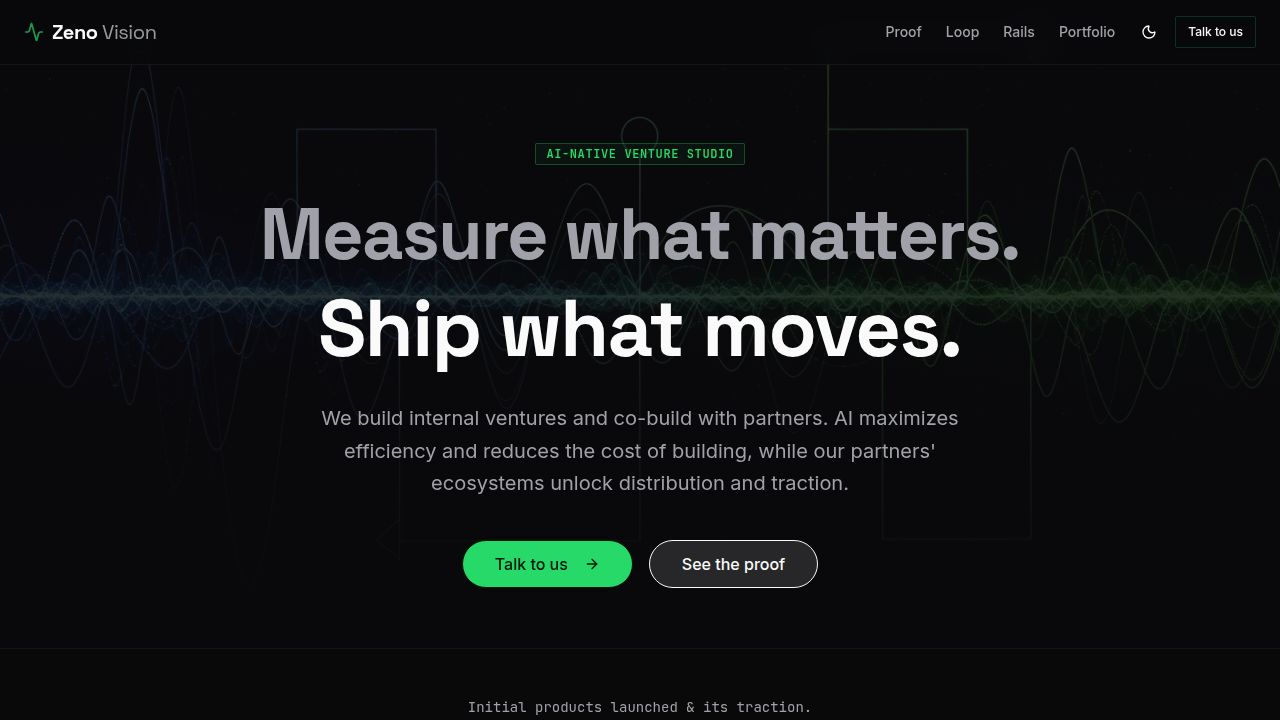
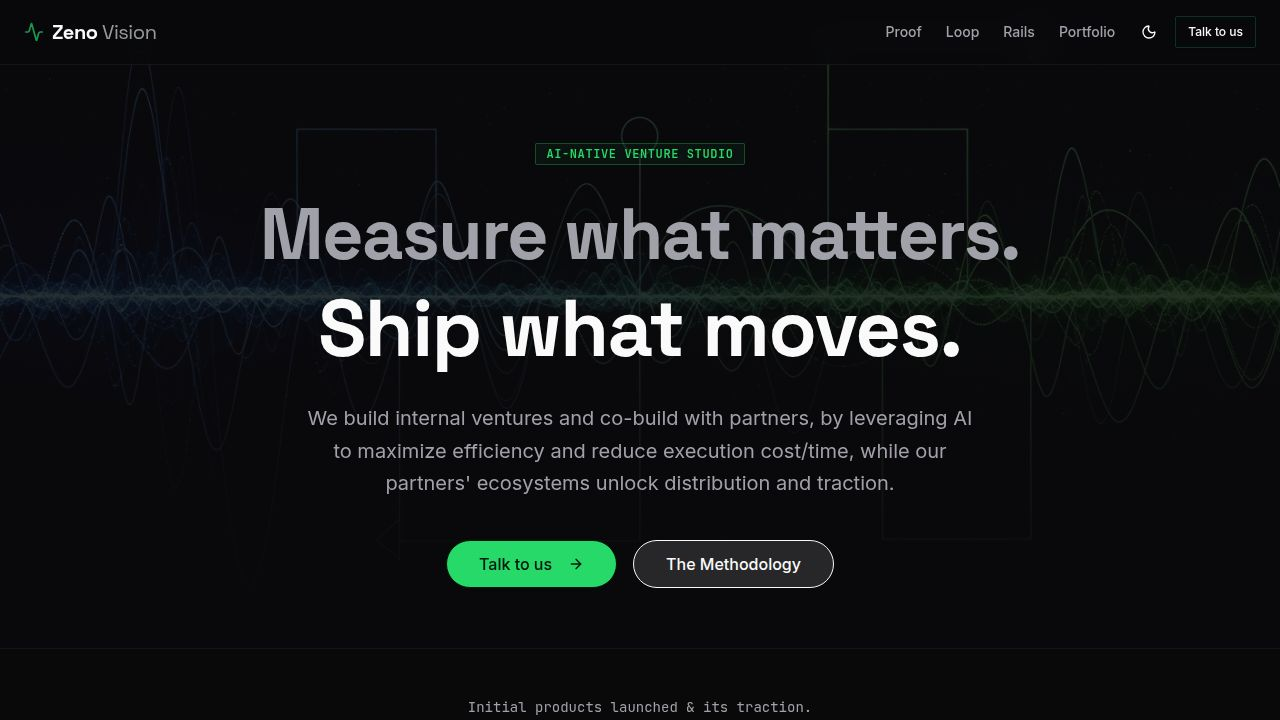
Update hero section tagline to include AI's role in efficiency
Modify the hero section's descriptive paragraph in `home.tsx` to reflect how AI enhances efficiency and reduces costs.

Replit-Commit-Author: Agent
Replit-Commit-Session-Id: 262afabe-b372-450c-9c74-cf88ad5452be
Replit-Commit-Checkpoint-Type: full_checkpoint
Replit-Commit-Event-Id: 95eeb934-a710-4ae8-9380-e8ffa2105dbb
Replit-Commit-Screenshot-Url: https://storage.googleapis.com/screenshot-production-us-central1/4f4f9012-dcda-40b1-bf47-ed13ac9763ff/262afabe-b372-450c-9c74-cf88ad5452be/3M1D01b
Replit-Helium-Checkpoint-Created: true

Changed region(s): [[0.25, 0.55, 0.75, 0.7028], [0.3438, 0.7333, 0.6562, 0.825]]

diff --git a/client/src/pages/home.tsx b/client/src/pages/home.tsx
@@ -112,8 +112,7 @@ const Hero = () => {
             <span className="text-[1.1em]">Ship what moves.</span>
           </h1>
           <p className="text-lg md:text-xl text-muted-foreground max-w-2xl mx-auto mb-10 leading-relaxed">
-            We build internal ventures and co-build with partners.
-            AI maximizes efficiency and reduces the cost of building, while our partners' ecosystems unlock distribution and traction.
+            We build internal ventures and co-build with partners, by leveraging AI to maximize efficiency and reduce execution cost/time, while our partners' ecosystems unlock distribution and traction.
           </p>
           
           <div className="flex flex-col sm:flex-row items-center justify-center gap-4">
